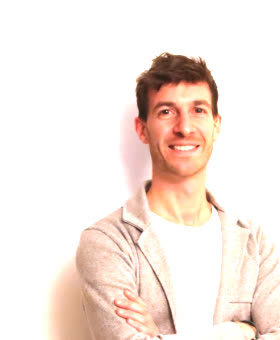
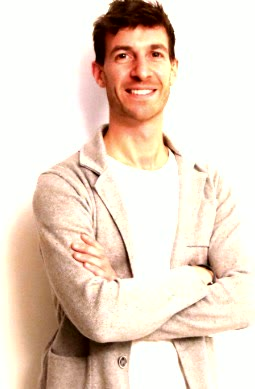
Fix Chi siamo founder alignment and portrait contrast
Flush founder blocks to the content grid, drop pale pink hero eyebrows,
and darken washed-out founder photos for clearer desktop layout.

diff --git a/src/styles/global.css b/src/styles/global.css
@@ -76,6 +76,10 @@ h3,
   text-transform: uppercase;
 }
 
+.eyebrow-on-dark {
+  color: rgba(255, 255, 255, 0.82);
+}
+
 .btn {
   display: inline-flex;
   align-items: center;
@@ -461,20 +465,49 @@ h3,
   transform: none;
 }
 
+.founders {
+  margin: 0;
+  padding: 0;
+  width: 100%;
+}
+
+.founders-head {
+  margin: 0 0 0.25rem;
+  padding: 0;
+}
+
+.founders-head h2 {
+  margin: 0;
+  font-size: clamp(1.8rem, 3.4vw, 2.4rem);
+}
+
 .founder {
   display: grid;
-  grid-template-columns: 11rem 1fr;
+  grid-template-columns: 13.5rem minmax(0, 1fr);
   gap: 1.75rem;
   align-items: start;
+  justify-items: stretch;
+  width: 100%;
+  margin: 0;
   padding: 2rem 0;
+  padding-inline: 0;
   border-top: 1px solid var(--line);
 }
 
 .founder img {
-  width: 11rem;
+  width: 13.5rem;
+  max-width: 100%;
   aspect-ratio: 1;
   object-fit: cover;
   object-position: top center;
+  margin: 0;
+  filter: contrast(1.08) saturate(1.05);
+}
+
+.founder-copy {
+  margin: 0;
+  padding: 0;
+  min-width: 0;
 }
 
 .founder .role {
@@ -751,12 +784,12 @@ h3,
   }
 
   .founder {
-    grid-template-columns: 8.5rem 1fr;
+    grid-template-columns: 9.5rem minmax(0, 1fr);
     gap: 1.15rem;
   }
 
   .founder img {
-    width: 8.5rem;
+    width: 9.5rem;
   }
 
   .company-card dl {
